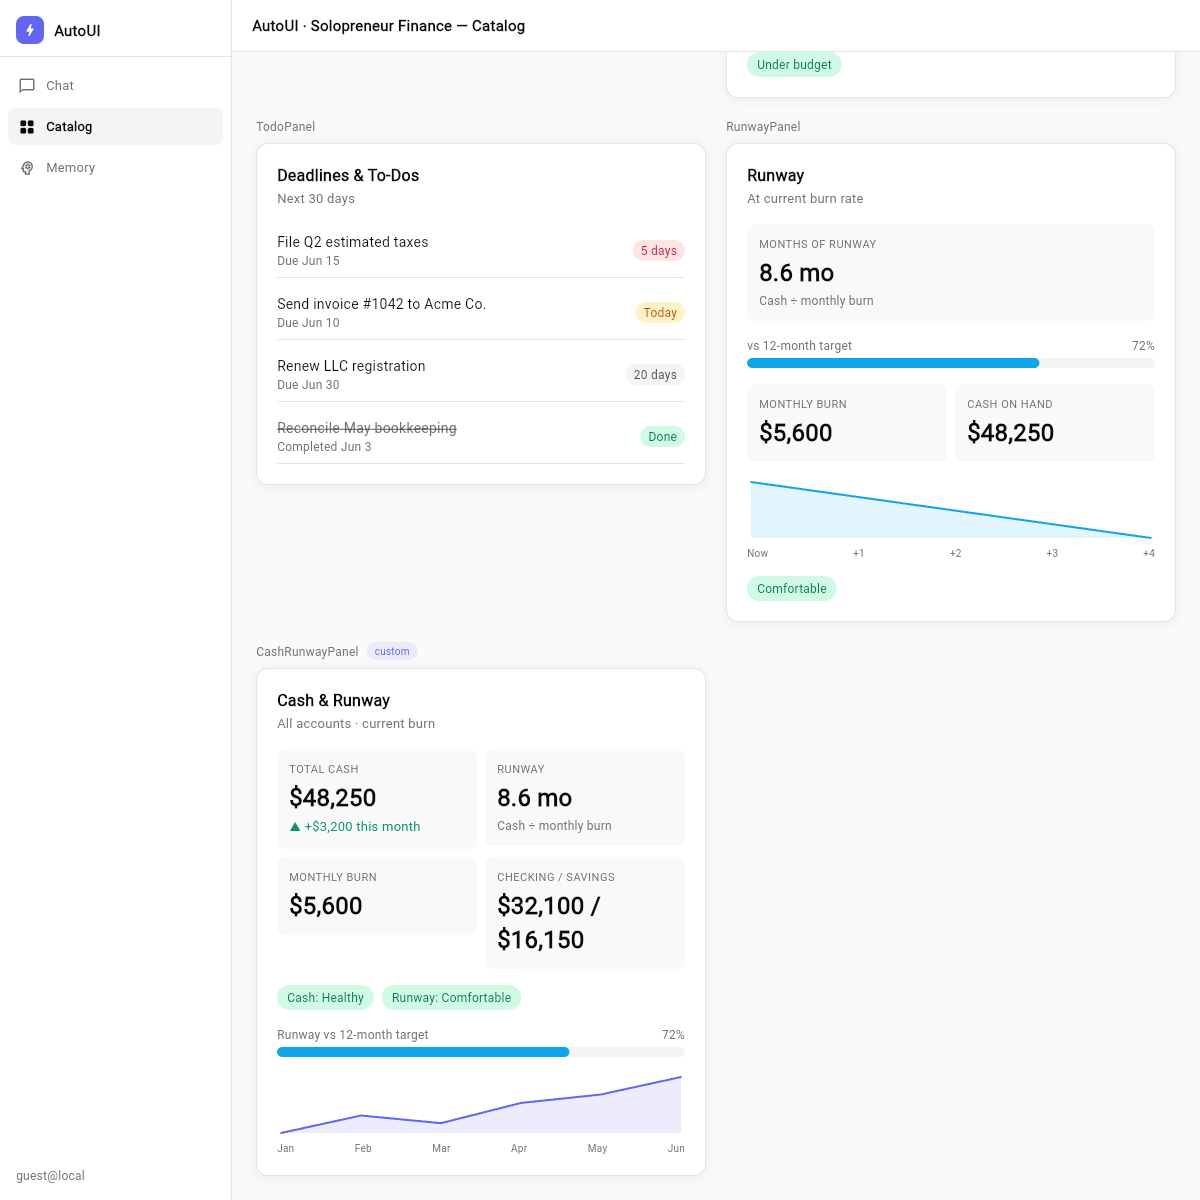
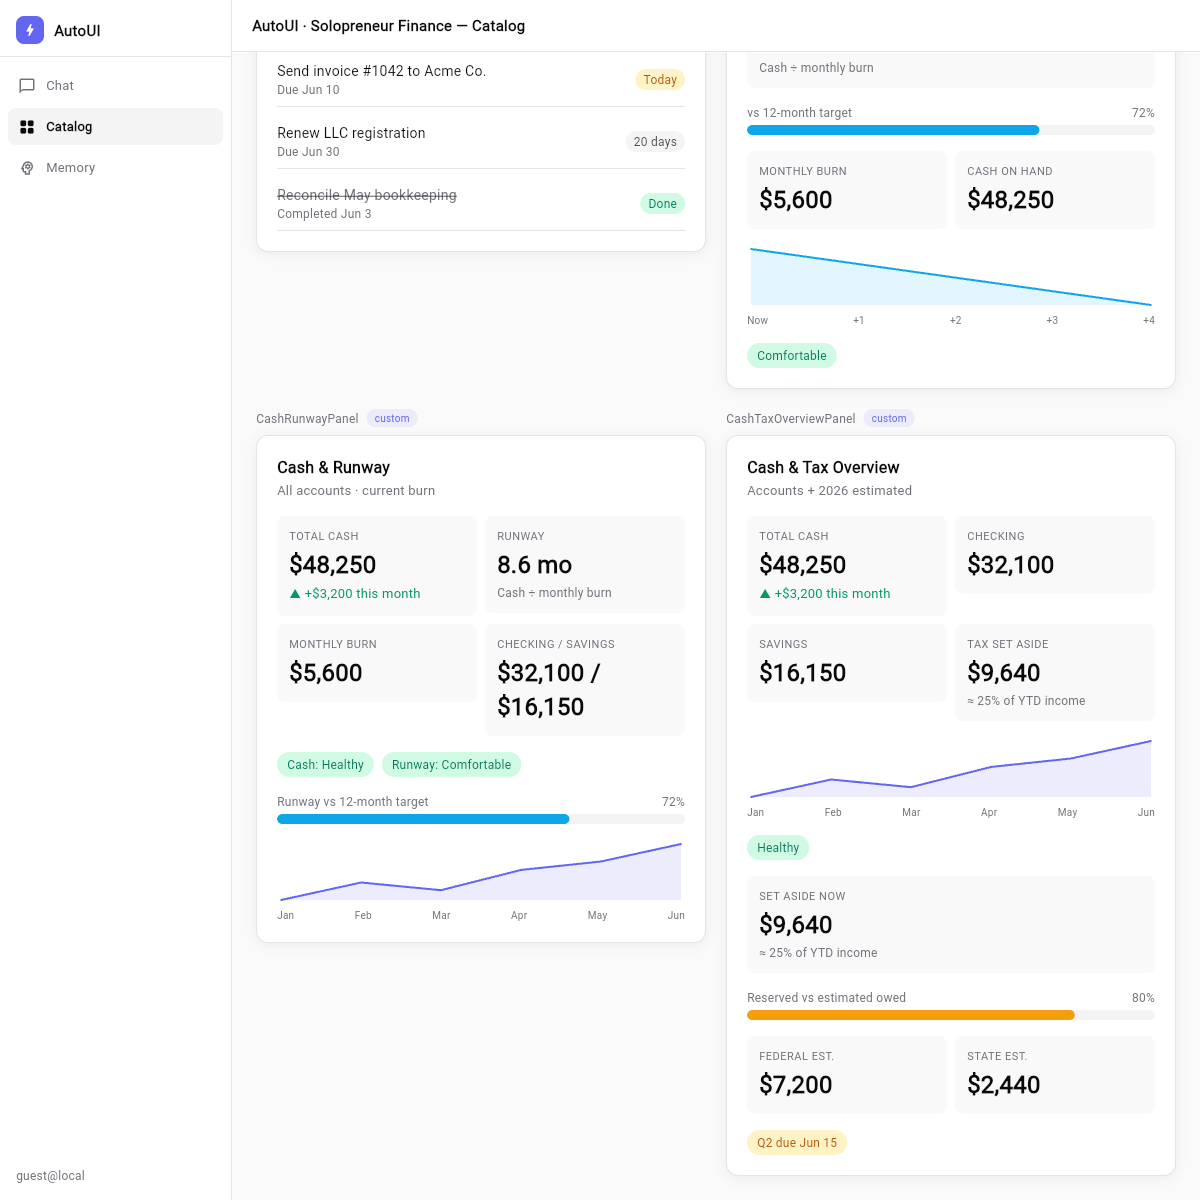
Flutter: '+' button to combine panels into a custom one
- '+' in the chat composer opens a remix dialog (multi-select panel picker +
  instruction) that POSTs to the existing /api/custom-panels endpoint, like the
  web app, with a success snackbar
- New panel appears in the Flutter Catalog (live fetch)
- Verified: created CashTaxOverviewPanel from CashPanel+TaxPanel (custom panels
  1 -> 2); it renders in the Catalog with a 'custom' badge

diff --git a/flutter/lib/panel_remix.dart b/flutter/lib/panel_remix.dart
@@ -1,0 +1,207 @@
+import 'package:flutter/material.dart';
+
+import 'api.dart';
+import 'theme.dart';
+
+/// Opens the "combine panels" dialog. Resolves to the new panel's name on
+/// success, or null if cancelled/failed.
+Future<String?> showPanelRemixDialog(BuildContext context, BackendApi api) {
+  return showDialog<String>(
+    context: context,
+    builder: (_) => _RemixDialog(api: api),
+  );
+}
+
+class _RemixDialog extends StatefulWidget {
+  final BackendApi api;
+  const _RemixDialog({required this.api});
+  @override
+  State<_RemixDialog> createState() => _RemixDialogState();
+}
+
+class _RemixDialogState extends State<_RemixDialog> {
+  List<CatalogPanel> _panels = [];
+  final Set<String> _selected = {};
+  final _instruction = TextEditingController();
+  bool _loading = true;
+  bool _creating = false;
+  String? _error;
+
+  @override
+  void initState() {
+    super.initState();
+    _load();
+  }
+
+  Future<void> _load() async {
+    try {
+      final panels = await widget.api.fetchCatalog();
+      if (mounted) setState(() {
+        _panels = panels;
+        _loading = false;
+      });
+    } catch (_) {
+      if (mounted) setState(() {
+        _error = 'Could not load panels';
+        _loading = false;
+      });
+    }
+  }
+
+  Future<void> _create() async {
+    if (_selected.isEmpty) {
+      setState(() => _error = 'Select at least one panel to combine');
+      return;
+    }
+    if (_instruction.text.trim().isEmpty) {
+      setState(() => _error = 'Describe how to combine the panels');
+      return;
+    }
+    setState(() {
+      _creating = true;
+      _error = null;
+    });
+    final panel = await widget.api.createCustomPanel(
+      sourcePanels: _selected.toList(),
+      instruction: _instruction.text.trim(),
+    );
+    if (!mounted) return;
+    if (panel != null) {
+      Navigator.of(context).pop(panel['name']?.toString() ?? 'panel');
+    } else {
+      setState(() {
+        _creating = false;
+        _error = 'Could not create the panel — try again';
+      });
+    }
+  }
+
+  @override
+  Widget build(BuildContext context) {
+    return AlertDialog(
+      backgroundColor: AppColors.card,
+      title: const Text('Create a custom panel',
+          style: TextStyle(fontSize: 16, fontWeight: FontWeight.w600)),
+      content: SizedBox(
+        width: 420,
+        child: _loading
+            ? const SizedBox(
+                height: 80,
+                child: Center(
+                    child: SizedBox(
+                        width: 20,
+                        height: 20,
+                        child: CircularProgressIndicator(strokeWidth: 2))),
+              )
+            : Column(
+                mainAxisSize: MainAxisSize.min,
+                crossAxisAlignment: CrossAxisAlignment.start,
+                children: [
+                  const Text(
+                    'Select one or more panels and describe how to combine them. '
+                    'Claude builds a new panel from the existing primitives.',
+                    style: TextStyle(fontSize: 12, color: AppColors.mutedForeground),
+                  ),
+                  const SizedBox(height: 12),
+                  const Text('Panels to combine',
+                      style: TextStyle(fontSize: 12, fontWeight: FontWeight.w500)),
+                  const SizedBox(height: 8),
+                  Wrap(
+                    spacing: 8,
+                    runSpacing: 8,
+                    children: [
+                      for (final p in _panels)
+                        _PanelChip(
+                          label: p.custom ? '${p.name} ★' : p.name,
+                          selected: _selected.contains(p.name),
+                          onTap: _creating
+                              ? null
+                              : () => setState(() {
+                                    if (!_selected.add(p.name)) {
+                                      _selected.remove(p.name);
+                                    }
+                                  }),
+                        ),
+                    ],
+                  ),
+                  const SizedBox(height: 14),
+                  const Text('Instruction',
+                      style: TextStyle(fontSize: 12, fontWeight: FontWeight.w500)),
+                  const SizedBox(height: 6),
+                  TextField(
+                    controller: _instruction,
+                    enabled: !_creating,
+                    minLines: 2,
+                    maxLines: 4,
+                    style: const TextStyle(fontSize: 13),
+                    decoration: InputDecoration(
+                      hintText: 'e.g. merge these into one compact panel',
+                      hintStyle: const TextStyle(color: AppColors.mutedForeground),
+                      contentPadding: const EdgeInsets.all(10),
+                      border: OutlineInputBorder(
+                        borderRadius: BorderRadius.circular(10),
+                        borderSide: const BorderSide(color: AppColors.border),
+                      ),
+                      enabledBorder: OutlineInputBorder(
+                        borderRadius: BorderRadius.circular(10),
+                        borderSide: const BorderSide(color: AppColors.border),
+                      ),
+                    ),
+                  ),
+                  if (_error != null) ...[
+                    const SizedBox(height: 8),
+                    Text(_error!,
+                        style: TextStyle(
+                            fontSize: 12, color: AppColors.toneText['danger'])),
+                  ],
+                ],
+              ),
+      ),
+      actions: [
+        TextButton(
+          onPressed: _creating ? null : () => Navigator.of(context).pop(),
+          child: const Text('Cancel'),
+        ),
+        ElevatedButton(
+          onPressed: (_loading || _creating) ? null : _create,
+          style: ElevatedButton.styleFrom(
+            backgroundColor: AppColors.foreground,
+            foregroundColor: AppColors.card,
+          ),
+          child: Text(_creating ? 'Creating…' : 'Create panel'),
+        ),
+      ],
+    );
+  }
+}
+
+class _PanelChip extends StatelessWidget {
+  final String label;
+  final bool selected;
+  final VoidCallback? onTap;
+  const _PanelChip({required this.label, required this.selected, this.onTap});
+
+  @override
+  Widget build(BuildContext context) {
+    return InkWell(
+      borderRadius: BorderRadius.circular(8),
+      onTap: onTap,
+      child: Container(
+        padding: const EdgeInsets.symmetric(horizontal: 10, vertical: 6),
+        decoration: BoxDecoration(
+          border: Border.all(
+              color: selected ? AppColors.primary : AppColors.border),
+          color: selected
+              ? AppColors.primary.withValues(alpha: 0.1)
+              : Colors.transparent,
+          borderRadius: BorderRadius.circular(8),
+        ),
+        child: Text(label,
+            style: TextStyle(
+              fontSize: 12,
+              color: selected ? AppColors.foreground : AppColors.mutedForeground,
+            )),
+      ),
+    );
+  }
+}

diff --git a/flutter/lib/main.dart b/flutter/lib/main.dart
@@ -3,6 +3,7 @@ import 'package:flutter/material.dart';
 import 'api.dart';
 import 'catalog_screen.dart';
 import 'memory_screen.dart';
+import 'panel_remix.dart';
 import 'render.dart';
 import 'theme.dart';
 
@@ -265,6 +266,15 @@ class _ChatViewState extends State<ChatView> {
     }
   }
 
+  Future<void> _openRemix() async {
+    final created = await showPanelRemixDialog(context, _api);
+    if (created != null && mounted) {
+      ScaffoldMessenger.of(context).showSnackBar(
+        SnackBar(content: Text('Created "$created" — see it on the Catalog tab')),
+      );
+    }
+  }
+
   void _scrollToEnd() {
     WidgetsBinding.instance.addPostFrameCallback((_) {
       if (_scroll.hasClients) {
@@ -418,6 +428,22 @@ class _ChatViewState extends State<ChatView> {
           constraints: const BoxConstraints(maxWidth: 720),
           child: Row(
             children: [
+              SizedBox(
+                height: 44,
+                width: 44,
+                child: OutlinedButton(
+                  onPressed: _openRemix,
+                  style: OutlinedButton.styleFrom(
+                    padding: EdgeInsets.zero,
+                    side: const BorderSide(color: AppColors.border),
+                    foregroundColor: AppColors.mutedForeground,
+                    shape: RoundedRectangleBorder(
+                        borderRadius: BorderRadius.circular(14)),
+                  ),
+                  child: const Icon(Icons.add, size: 20),
+                ),
+              ),
+              const SizedBox(width: 8),
               Expanded(
                 child: TextField(
                   controller: _controller,

diff --git a/flutter/lib/api.dart b/flutter/lib/api.dart
@@ -106,6 +106,31 @@ class BackendApi {
     return FinanceMemory(decl, proc);
   }
 
+  /// Create a new custom panel by combining sources via the existing endpoint.
+  /// Returns the created panel object ({name, title, ...}) or null on failure.
+  Future<Map<String, dynamic>?> createCustomPanel({
+    required List<String> sourcePanels,
+    required String instruction,
+  }) async {
+    await ensureGuest();
+    final res = await _client.post(
+      _uri('/api/custom-panels'),
+      headers: {'content-type': 'application/json'},
+      body: jsonEncode({
+        'sourcePanels': sourcePanels,
+        'instruction': instruction,
+      }),
+    );
+    if (res.statusCode != 200) {
+      return null;
+    }
+    final data = jsonDecode(utf8.decode(res.bodyBytes)) as Map<String, dynamic>;
+    if (data['ok'] != true) {
+      return null;
+    }
+    return (data['panel'] as Map?)?.cast<String, dynamic>();
+  }
+
   /// Record thumb up/down feedback for a panel via the existing endpoint.
   Future<bool> sendFeedback({
     required String question,